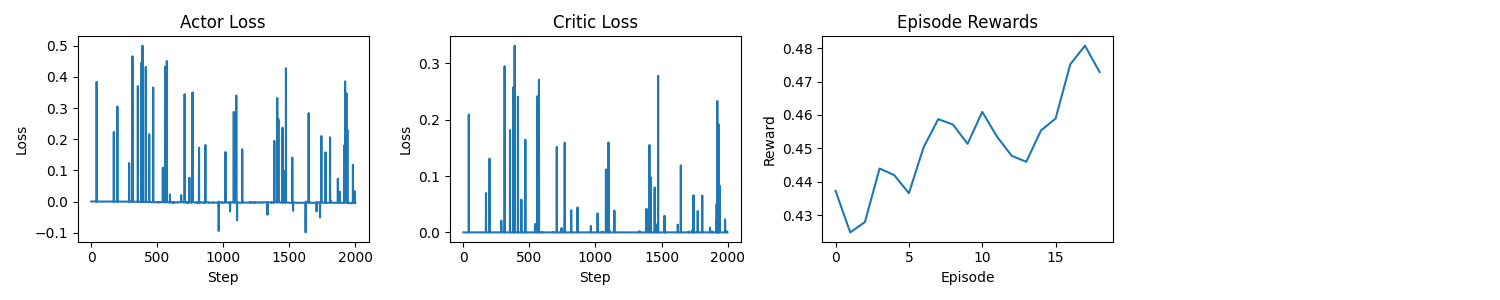
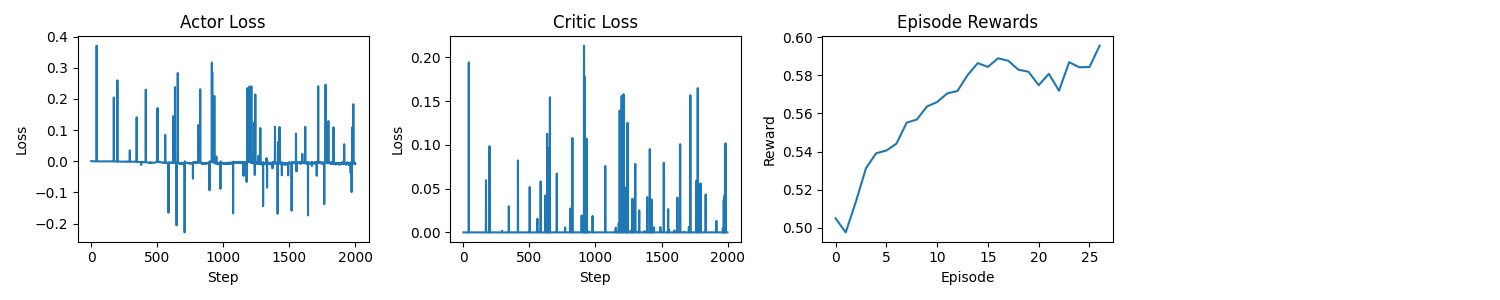
prog

diff --git a/model/minigrid/main.py b/model/minigrid/main.py
@@ -27,15 +27,15 @@ else:
     raise RuntimeError("No GPU (CUDA or MPS) available")
 
 NUM_ACTIONS = 3  # MiniGrid has 3 actions: left, right, forward
-NUM_ENVS = 2
-NUM_STEPS = 2000
-EVAL_FREQ = 1900
+NUM_ENVS = 25
+NUM_STEPS = 20000
+EVAL_FREQ = 19000
 RENDER_EVAL = False
 WINDOW_SIZE = 50
 
 HIDDEN_SIZE = 128
-ACTOR_LR = 1e-6
-CRITIC_LR = 2e-6
+ACTOR_LR = 1e-5
+CRITIC_LR = 2e-5
 
 RESERVOIR_SIZE = 1000
 STATE_LR = 1e-6
@@ -176,36 +176,22 @@ def main() -> None:
             # don't do this for the first step since no steps have been taken, so reward will be unset
             if step != 0:
                 rewards = torch.tensor(rewards, dtype=torch.float32).unsqueeze(1).to(DEVICE)  # Add dimension
-
-                # handle pos
-                actions_onehot = F.one_hot(actions, num_classes=NUM_ACTIONS)
-                sensory_input_pos = torch.cat((obs, actions_onehot, rewards), dim=1)
-
-                # handle neg
-                negative_actions = torch.randint(0, NUM_ACTIONS, (NUM_ENVS,), device=DEVICE)
-                while (negative_actions == actions).any():
-                    negative_actions = torch.randint(0, NUM_ACTIONS, (NUM_ENVS,), device=DEVICE)
-                negative_actions_onehot = F.one_hot(negative_actions, num_classes=NUM_ACTIONS)
-                sensory_input_neg = torch.cat((obs, negative_actions_onehot, rewards), dim=1)
-
-                state.process_timestep(sensory_input_pos, sensory_input_neg, training=True)
-                state_activations_prev = state.activations.detach().clone()
             else:
                 rewards = torch.zeros(NUM_ENVS, 1, device=DEVICE)
 
-                # handle pos
-                actions_onehot = F.one_hot(actions, num_classes=NUM_ACTIONS)
-                sensory_input_pos = torch.cat((obs, actions_onehot, rewards), dim=1)
+            # handle pos
+            actions_onehot = F.one_hot(actions, num_classes=NUM_ACTIONS)
+            sensory_input_pos = torch.cat((obs, actions_onehot, rewards), dim=1)
 
-                # handle neg
+            # handle neg
+            negative_actions = torch.randint(0, NUM_ACTIONS, (NUM_ENVS,), device=DEVICE)
+            while (negative_actions == actions).any():
                 negative_actions = torch.randint(0, NUM_ACTIONS, (NUM_ENVS,), device=DEVICE)
-                while (negative_actions == actions).any():
-                    negative_actions = torch.randint(0, NUM_ACTIONS, (NUM_ENVS,), device=DEVICE)
-                negative_actions_onehot = F.one_hot(negative_actions, num_classes=NUM_ACTIONS)
-                sensory_input_neg = torch.cat((obs, negative_actions_onehot, rewards), dim=1)
+            negative_actions_onehot = F.one_hot(negative_actions, num_classes=NUM_ACTIONS)
+            sensory_input_neg = torch.cat((obs, negative_actions_onehot, rewards), dim=1)
 
-                state.process_timestep(sensory_input_pos, sensory_input_neg, training=True)
-                state_activations_prev = state.activations.detach().clone()
+            state.process_timestep(sensory_input_pos, sensory_input_neg, training=True)
+            state_activations_prev = state.activations.detach().clone()
 
             # make this append the taken action
             # append the action to the obs -- for neg action, sample random action but it cannot be same as pos action
